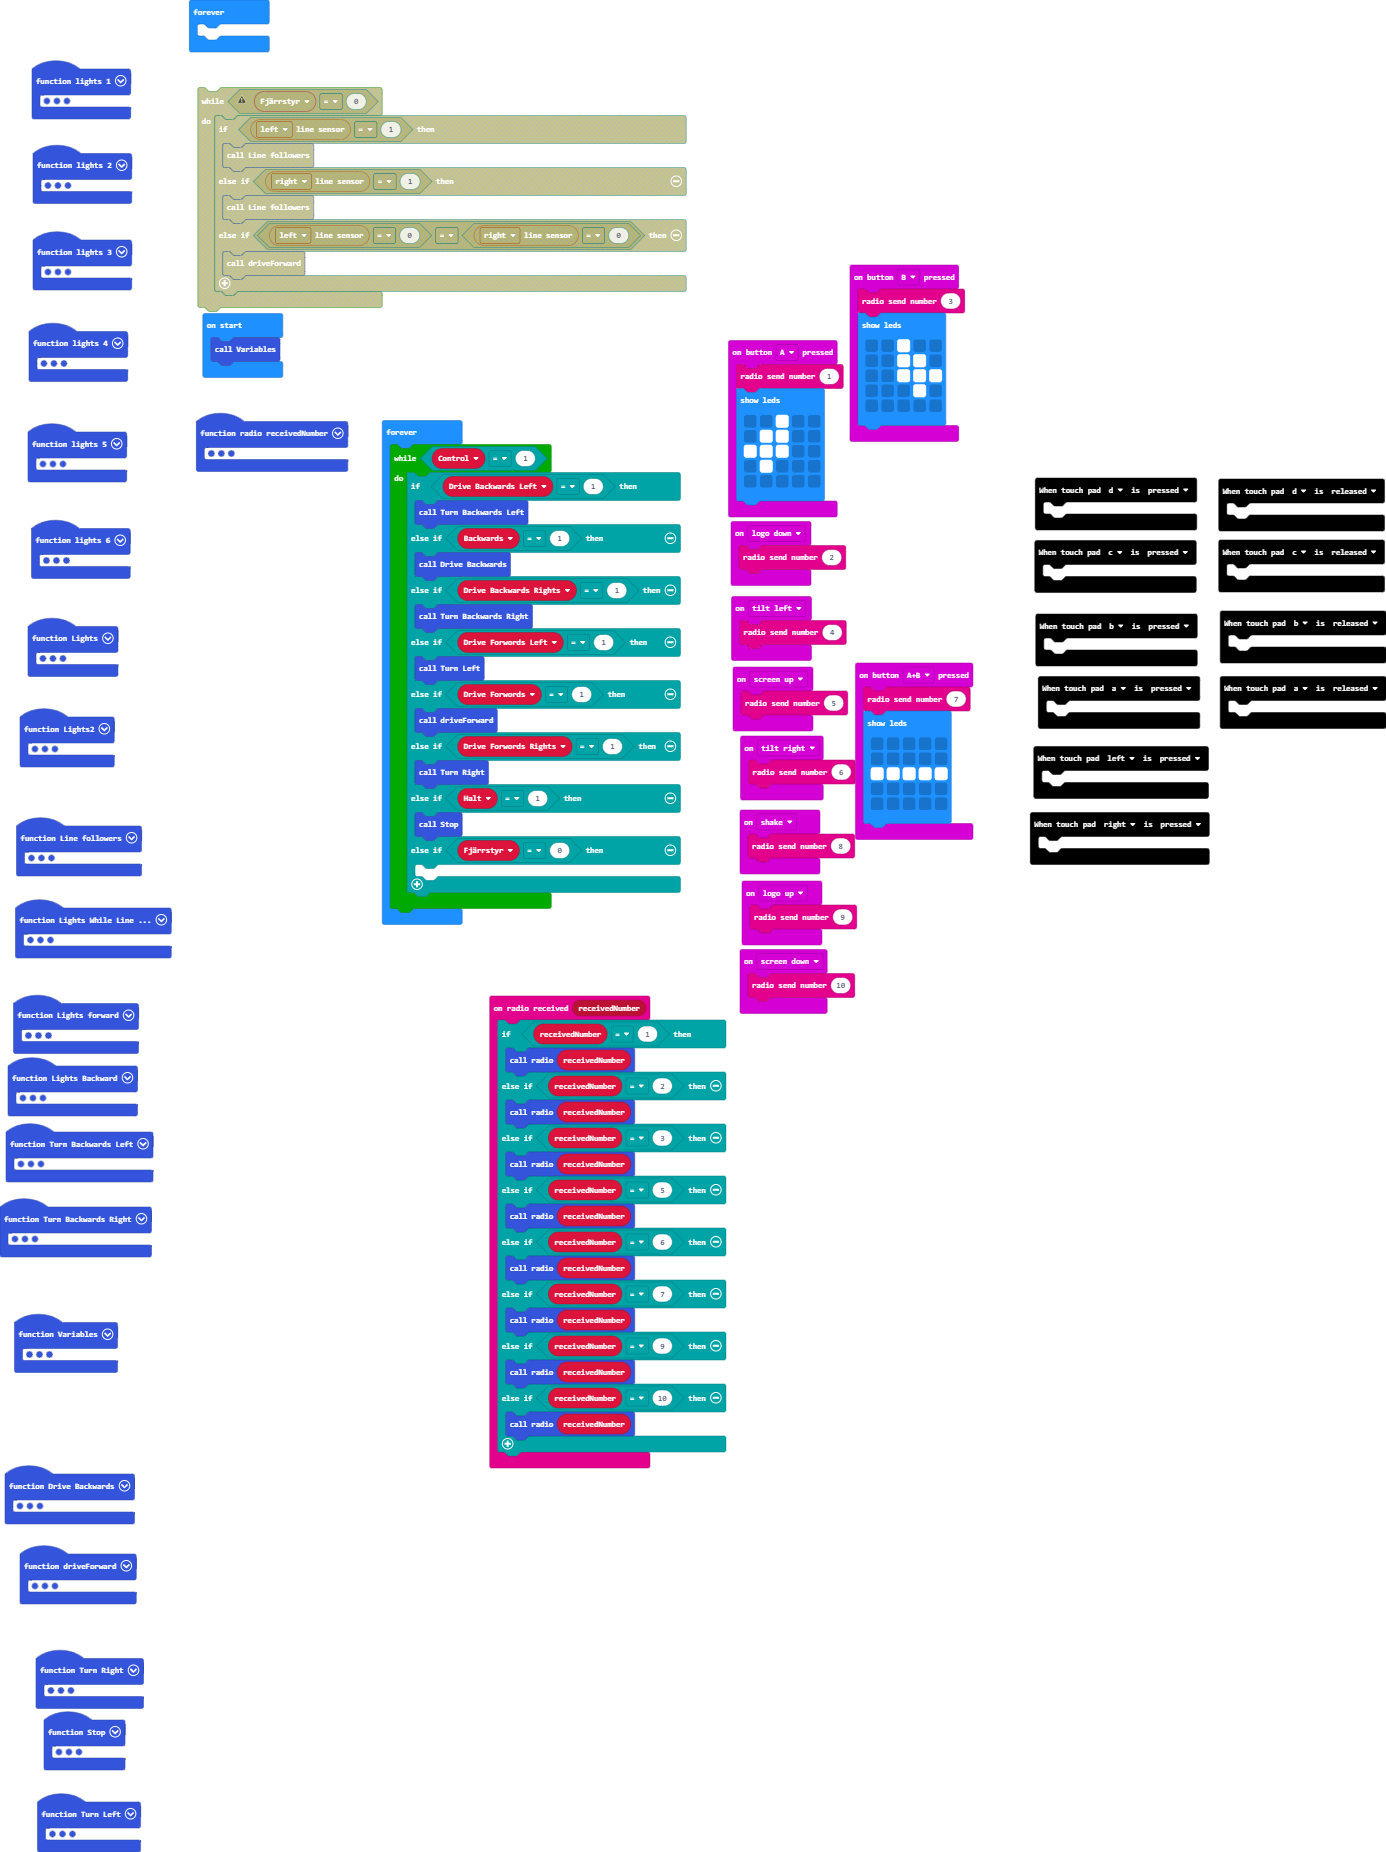
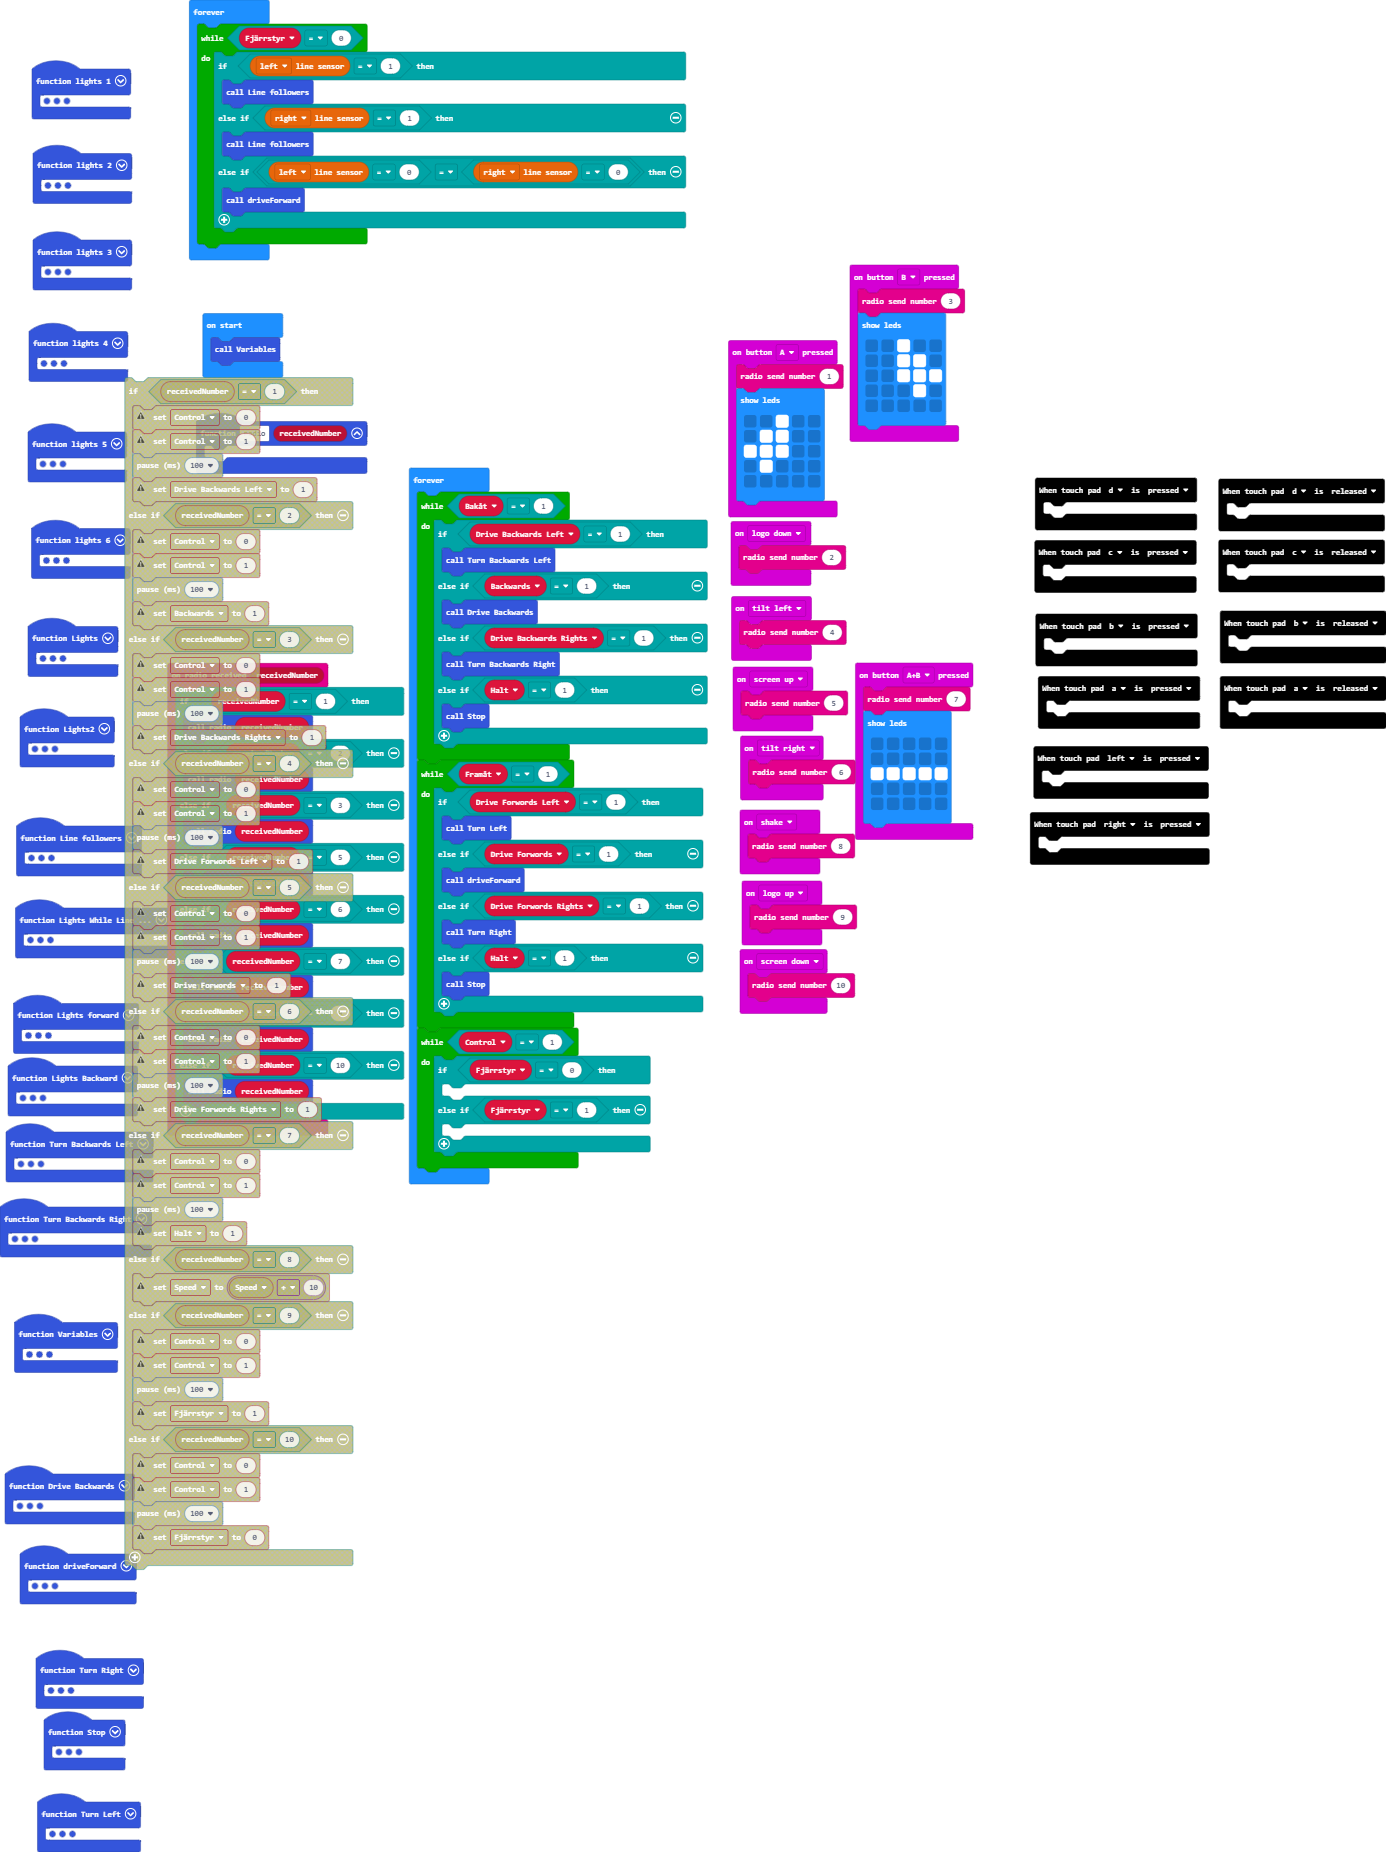
Update main.blocks, main.ts

Changed region(s): [[0.062, 0.0, 0.5274, 0.8618]]

diff --git a/main.ts b/main.ts
@@ -181,54 +181,7 @@ touchbit.on(touchbit.TouchPad.left, touchbit.TouchEvent.pressed, function () {
 	
 })
 function radio2 (receivedNumber: number) {
-    if (receivedNumber == 1) {
-        Control = 0
-        Control = 1
-        basic.pause(100)
-        Drive_Backwards_Left = 1
-    } else if (receivedNumber == 2) {
-        Control = 0
-        Control = 1
-        basic.pause(100)
-        Backwards = 1
-    } else if (receivedNumber == 3) {
-        Control = 0
-        Control = 1
-        basic.pause(100)
-        Drive_Backwards_Rights = 1
-    } else if (receivedNumber == 4) {
-        Control = 0
-        Control = 1
-        basic.pause(100)
-        Drive_Forwords_Left = 1
-    } else if (receivedNumber == 5) {
-        Control = 0
-        Control = 1
-        basic.pause(100)
-        Drive_Forwords = 1
-    } else if (receivedNumber == 6) {
-        Control = 0
-        Control = 1
-        basic.pause(100)
-        Drive_Forwords_Rights = 1
-    } else if (receivedNumber == 7) {
-        Control = 0
-        Control = 1
-        basic.pause(100)
-        Halt = 1
-    } else if (receivedNumber == 8) {
-        Speed = Speed + 10
-    } else if (receivedNumber == 9) {
-        Control = 0
-        Control = 1
-        basic.pause(100)
-        Fjärrstyr = 1
-    } else if (receivedNumber == 10) {
-        Control = 0
-        Control = 1
-        basic.pause(100)
-        Fjärrstyr = 0
-    }
+	
 }
 input.onGesture(Gesture.ScreenDown, function () {
     radio.sendNumber(10)
@@ -372,7 +325,6 @@ touchbit.on(touchbit.TouchPad.a, touchbit.TouchEvent.released, function () {
 	
 })
 let Fjärrstyr = 0
-let Speed = 0
 let Halt = 0
 let Drive_Forwords_Rights = 0
 let Drive_Forwords = 0
@@ -380,21 +332,37 @@ let Drive_Forwords_Left = 0
 let Drive_Backwards_Rights = 0
 let Backwards = 0
 let Drive_Backwards_Left = 0
-let Control = 0
+let Speed = 0
 let Led = 0
 Variables()
 basic.forever(function () {
-	
+    while (Fjärrstyr == 0) {
+        if (bitbot.readLine(BBLineSensor.Left) == 1) {
+            Line_followers()
+        } else if (bitbot.readLine(BBLineSensor.Right) == 1) {
+            Line_followers()
+        } else if (bitbot.readLine(BBLineSensor.Left) == 0 == (bitbot.readLine(BBLineSensor.Right) == 0)) {
+            driveForward()
+        }
+    }
 })
 basic.forever(function () {
-    while (Control == 1) {
+    let Control = 0
+    let Framåt = 0
+    let Bakåt = 0
+    while (Bakåt == 1) {
         if (Drive_Backwards_Left == 1) {
             Turn_Backwards_Left()
         } else if (Backwards == 1) {
             Drive_Backwards()
         } else if (Drive_Backwards_Rights == 1) {
             Turn_Backwards_Right()
-        } else if (Drive_Forwords_Left == 1) {
+        } else if (Halt == 1) {
+            Stop()
+        }
+    }
+    while (Framåt == 1) {
+        if (Drive_Forwords_Left == 1) {
             Turn_Left()
         } else if (Drive_Forwords == 1) {
             driveForward()
@@ -402,7 +370,12 @@ basic.forever(function () {
             Turn_Right()
         } else if (Halt == 1) {
             Stop()
-        } else if (Fjärrstyr == 0) {
+        }
+    }
+    while (Control == 1) {
+        if (Fjärrstyr == 0) {
+        	
+        } else if (Fjärrstyr == 1) {
         	
         }
     }
